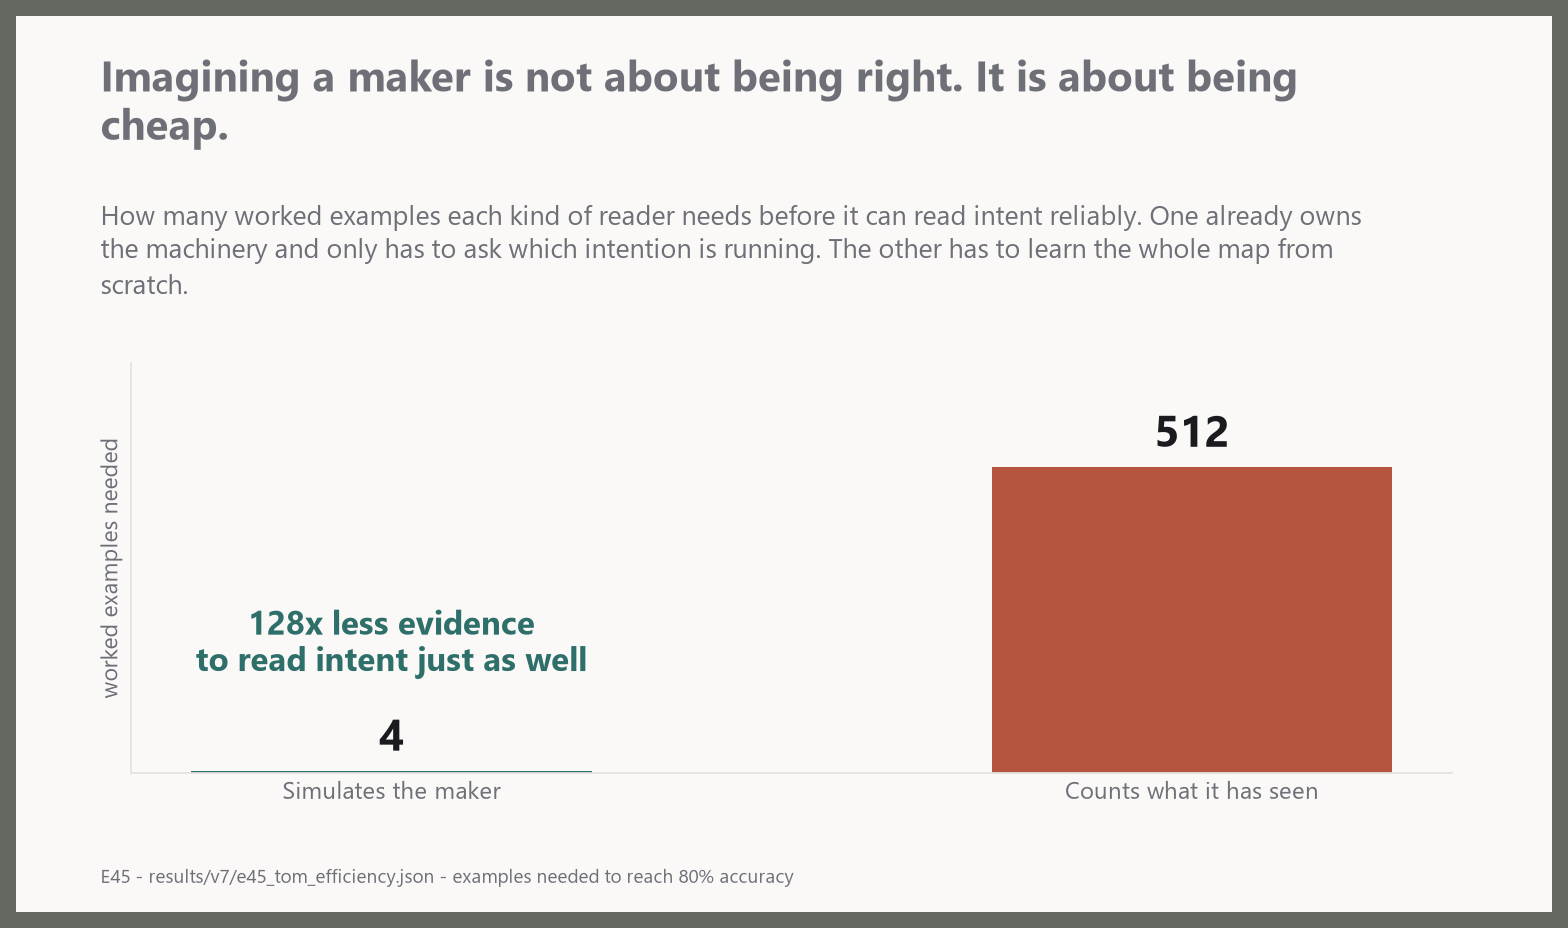
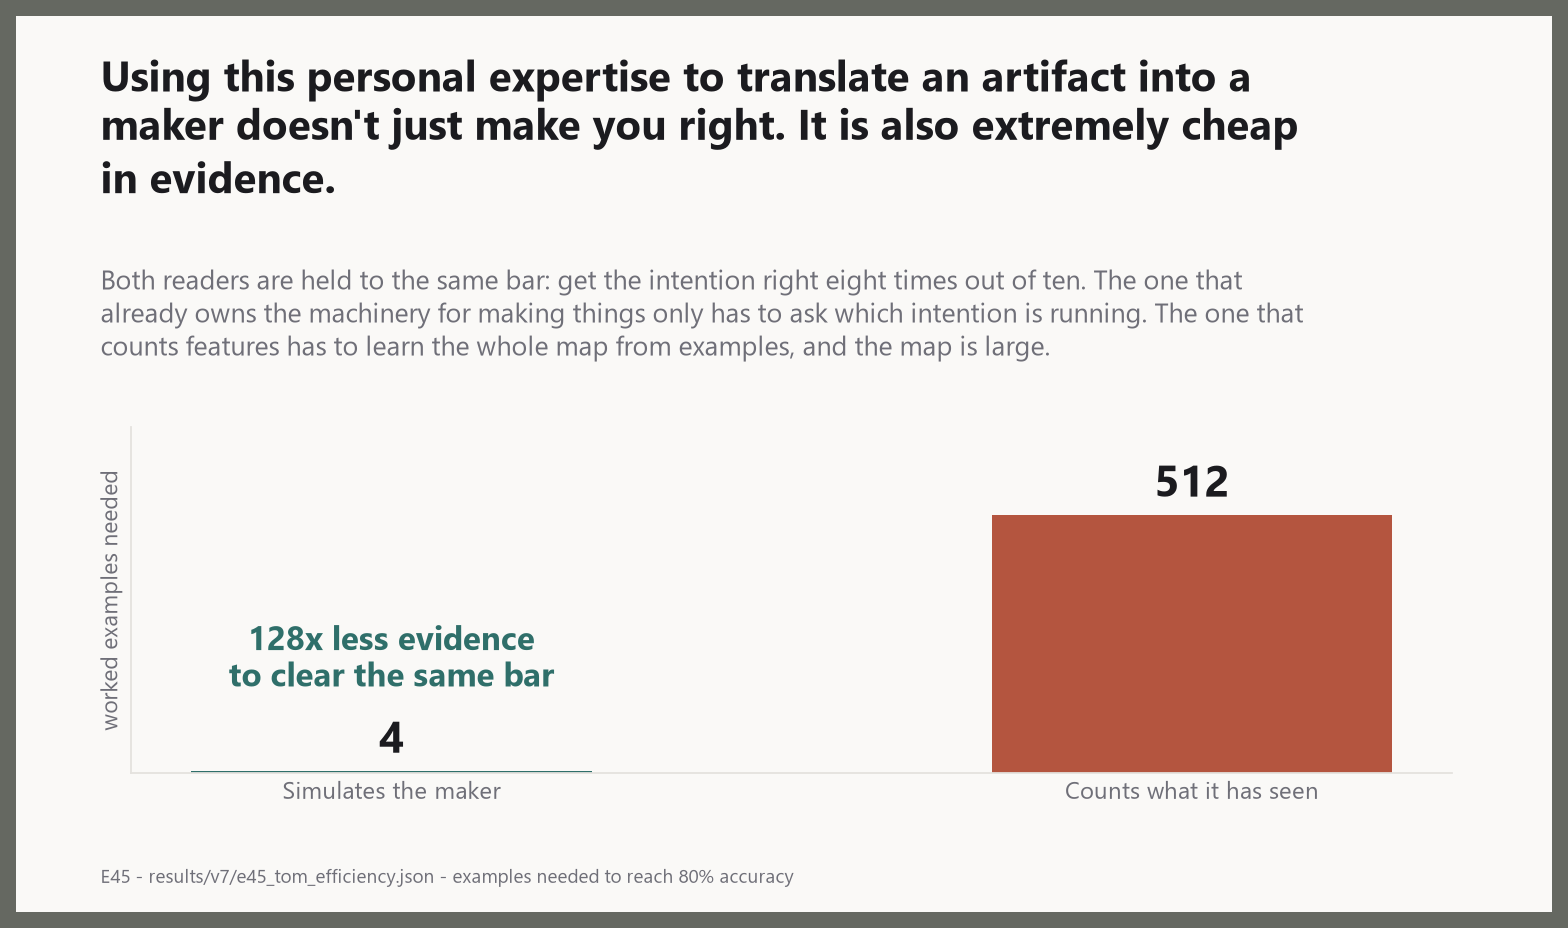
Carousel 2 takes the author's titles, and plate 13 finds its real result
Four titles in the author's hand, so four plates move to black. Two words
changed against the data: 18 said "computationally cheap" and the result is
sample efficiency rather than compute, and 19 said "absorb new processes" when
the measure is a held-out intention.

13 is rebuilt. Identical numbers do not survive three seconds and read as the
model failing its own test. Change the label from a lie to the truth and my
reader drops 0.92 -> 0.04 while the counter does not move; that was in the same
results file the whole time. The withdrawal stays, in the subtitle.

plate() now steps the title size down rather than clamping the axes into the
subtitle, so a three-sentence authored title fits without cutting words.

diff --git a/scripts/make_walkthrough_plates.py b/scripts/make_walkthrough_plates.py
@@ -544,6 +544,13 @@ def plate_13_no_mind_needed():
     that cell the two readers are the same object. It is also plotted as CERTAINTY now, because
     the old plate drew entropy and called it uncertainty, so a shorter bar meant a more confident
     reader and every instinct the eye has was pointing backwards.
+
+    AND THEN REDRAWN AGAIN, because 'here are two identical numbers' does not survive three
+    seconds of a stranger's attention. Worse, it reads as the model failing its own test. The
+    withdrawal is real and it stays in the subtitle, but the picture now shows the thing that
+    was sitting in the same results file the whole time: change the label from a lie to the
+    truth, and my reader drops from 0.92 certain to 0.04 while the counter does not move by a
+    hundredth. The signature was never the evidence. Being able to hear a label is.
     """
     df = pd.read_csv(R / "e21_cell_stats.csv")
     cell = df[(df.content == "goal_empty") & (df.declared_signal == "SIG_CREATOR")]
@@ -556,35 +563,52 @@ def plate_13_no_mind_needed():
         return
 
     hmax = float(np.log(4))       # four goal states, so this is 'no idea at all'
-    certain = [1 - float(full.within_observer.iloc[0]) / hmax,
-               1 - float(naive.within_observer.iloc[0]) / hmax]
-    dis = [float(full.between_observer.iloc[0]) / hmax,
-           float(naive.between_observer.iloc[0]) / hmax]
+
+    def certainty(rows, sig):
+        r = rows[rows.declared_signal == sig] if "declared_signal" in rows else rows
+        return 1 - float(r.within_observer.iloc[0]) / hmax
+
+    arm_full = str(full.arm.iloc[0])
+    arm_naive = str(naive.arm.iloc[0])
+    cellc = df[(df.content == "goal_empty")]
+    lied = [certainty(cellc[cellc.arm == arm_full], "SIG_CREATOR"),
+            certainty(cellc[cellc.arm == arm_naive], "SIG_CREATOR")]
+    told = [certainty(cellc[cellc.arm == arm_full], "SIG_GHOST"),
+            certainty(cellc[cellc.arm == arm_naive], "SIG_GHOST")]
 
     fig, ax = plate(
-        "You don't need to imagine a mind to invent one.",
-        "Both readers are shown the same empty content under the same false creator label. One "
-        "of them models a maker. The other counts features and represents no maker at all. On "
-        "the signature this project was built around, they are the same object.",
-        "E21 - results/e21_cell_stats.csv - empty content under a creator label; certainty is "
-        "1 minus the reader's own entropy, disagreement is the spread between readers")
+        "A feature-counter invents a maker exactly as confidently as my reader does. "
+        "It also cannot hear you when you tell it the truth.",
+        "I used to claim that the confident, contradictory reading of empty content needed a "
+        "reader that models a maker. It does not, and my own experiment is what withdrew that: "
+        "told a person made it, both readers commit equally hard to somebody who was never there. "
+        "Then tell them honestly that no person did. Only one of them can hear it.",
+        "E21 - results/e21_cell_stats.csv - the same empty artifact under a false creator label "
+        "and an honest one; certainty is 1 minus the reader's own entropy over what it was for")
     xs = np.arange(2)
     w = 0.34
-    b1 = ax.bar(xs - w / 2, certain, width=w, color=COOL)
-    b2 = ax.bar(xs + w / 2, dis, width=w, color=MACHINE)
+    b1 = ax.bar(xs - w / 2, lied, width=w, color=MACHINE)
+    b2 = ax.bar(xs + w / 2, told, width=w, color=COOL)
     ax.set_xticks(xs)
-    ax.set_xticklabels(["The full model\n(imagines a maker)",
-                        "A counting classifier\n(imagines nothing)"], fontsize=12)
-    bar_labels(ax, b1, certain, fmt="{:.2f}", fontsize=13, color=INK)
-    bar_labels(ax, b2, dis, fmt="{:.2f}", fontsize=13, color=INK)
-    ax.set_ylim(0, 1.42)
-    clean_axis(ax)
+    ax.set_xticklabels(["My reader\n(imagines a maker)",
+                        "A counting classifier\n(imagines nothing)"], fontsize=12.5)
+    bar_labels(ax, b1, lied, fmt="{:.2f}", fontsize=13, color=INK)
+    bar_labels(ax, b2, told, fmt="{:.2f}", fontsize=13, color=INK)
+    ax.set_ylim(0, 1.46)
+    clean_axis(ax, "how sure it ends up")
     ax.set_yticks([])
-    annotate(ax, -0.44, 1.30, "how sure it ends up", color=COOL, fontsize=11.5, weight="bold")
-    annotate(ax, 0.40, 1.30, "how much readers disagree", color=MACHINE, fontsize=11.5,
+    annotate(ax, -0.44, 1.34, "told a person made it", color=MACHINE, fontsize=12, weight="bold")
+    annotate(ax, 0.30, 1.34, "told honestly that nobody did", color=COOL, fontsize=12,
              weight="bold")
-    annotate(ax, 0.5, 1.13, "the same, to two decimal places, on both measures",
-             color=INK, ha="center", fontsize=13, weight="bold")
+    # The whole point of the redraw: the eye has to land on ONE pair collapsing and the other
+    # not moving. Everything else on this plate is there to make that comparison legible.
+    ax.annotate("", xy=(w / 2, told[0] + 0.22), xytext=(-w / 2, lied[0] - 0.04),
+                arrowprops=dict(arrowstyle="->", color=INK, lw=2.2,
+                                connectionstyle="arc3,rad=-0.25"))
+    annotate(ax, 0.10, 0.58, "the truth lands", color=INK, fontsize=12.5, weight="bold",
+             ha="left")
+    annotate(ax, 1, told[1] + 0.20, "the truth changes nothing at all",
+             color=COOL, ha="center", fontsize=12.5, weight="bold")
     record(save(fig, "13_no_mind_needed"),
            "A claim this project withdrew, using its own experiment. Kept prominently on purpose.")
 
@@ -727,11 +751,14 @@ def plate_18_what_tom_buys():
     sim, cnt = h1["evidence_the_simulator_needs"], h1["evidence_the_counter_needs"]
 
     fig, ax = plate(
-        "Imagining a maker is not about being right. It is about being cheap.",
-        "How many worked examples each kind of reader needs before it can read intent reliably. "
-        "One already owns the machinery and only has to ask which intention is running. The other "
-        "has to learn the whole map from scratch.",
-        "E45 - results/v7/e45_tom_efficiency.json - examples needed to reach 80% accuracy")
+        "Using this personal expertise to translate an artifact into a maker doesn't just "
+        "make you right. It is also extremely cheap in evidence.",
+        "Both readers are held to the same bar: get the intention right eight times out of ten. "
+        "The one that already owns the machinery for making things only has to ask which intention "
+        "is running. The one that counts features has to learn the whole map from examples, and "
+        "the map is large.",
+        "E45 - results/v7/e45_tom_efficiency.json - examples needed to reach 80% accuracy",
+        authored=True)
     # LINEAR, deliberately. This was drawn on a log axis and the log axis was lying by being
     # tidy: 4 against 512 came out looking like a one-to-five difference, which is the single
     # most understated number in the project. On a linear axis the cheap reader is a sliver,
@@ -744,8 +771,8 @@ def plate_18_what_tom_buys():
     ax.set_ylim(0, cnt * 1.34)
     clean_axis(ax, "worked examples needed")
     ax.set_yticks([])
-    annotate(ax, 0, cnt * 0.30, str(int(cnt / max(sim, 1))) + "x less evidence\nto read intent "
-             "just as well", color=HUMAN, ha="center", fontsize=15, weight="bold")
+    annotate(ax, 0, cnt * 0.30, str(int(cnt / max(sim, 1))) + "x less evidence\nto clear the "
+             "same bar", color=HUMAN, ha="center", fontsize=15, weight="bold")
     record(save(fig, "18_what_imagining_a_maker_buys"),
            "The experiment that made this project withdraw a claim asked whether you NEED to "
            "imagine a maker. You do not. It never asked what imagining one buys.")
@@ -762,10 +789,15 @@ def plate_19_zero_shot():
     chance = float(d["chance"])
 
     fig, ax = plate(
-        "You can recognise a purpose nobody has ever shown you. A pattern-matcher cannot.",
-        "Reading an intention that appears nowhere in the training data. More data does not help "
-        "the pattern-matcher, because its problem was never a shortage of examples.",
-        "E45 - results/v7/e45_tom_efficiency.json - accuracy on a held-out intention")
+        "Using the simulating power of empathy to bridge a gap in your understanding, you can "
+        "read a purpose you have never been shown. A pattern-matcher fails at this.",
+        "The intention being read here appears nowhere in either reader's training data. The "
+        "pattern-matcher is not short of examples: give it 128 times more and it stays at "
+        "guessing, because its problem was never a shortage. It has no way to represent something "
+        "it has not already seen.",
+        "E45 - results/v7/e45_tom_efficiency.json - accuracy on a held-out intention, against a "
+        "two-way choice",
+        authored=True)
     ax.plot(range(len(xs)), [by[x] for x in xs], "-o", color=MACHINE, lw=2.6, ms=8)
     ax.axhline(sim, color=HUMAN, lw=2.8)
     ax.axhline(chance, color=NEUTRAL, lw=1.4, ls=":")
@@ -803,25 +835,32 @@ def plate_20_rejection_is_not_protection():
     perfect = float(by["0.0"]["final_drift"])
 
     fig, ax = plate(
-        "You cannot read something, reject it, and walk away unchanged.",
+        "One of this model's emergent properties is predicting the mechanism for indoctrination "
+        "or marketing. Unfortunately, the same result implies that engaging with unlabelled AI "
+        "content can actively erode away your expertise. Empathy is automatic.",
         "Two readers, both refusing everything they are shown. To decide you disagree with "
         "something you first have to work out what it says, and working out what it says means "
-        "partly running it. Refusing is itself a small act of taking on, and it compounds.",
+        "partly running it. What gets through the guard is not the content. It is the effort you "
+        "spent deciding what to disagree with.",
         "E46 - results/v7/e46_gate_leak.json - how far a reader's own beliefs moved after "
-        "repeatedly rejecting everything, at a fixed 10% leak")
+        "repeatedly rejecting everything, at a fixed 10% leak",
+        authored=True)
     bars = ax.bar(["Skims it\n(two looks)", "Studies it closely\nto refute it (sixteen looks)"],
                   [skim, close], color=[NEUTRAL, MACHINE], width=0.5)
     bar_labels(ax, bars, [skim, close], fmt="{:.3f}", fontsize=15, color=INK)
-    ax.set_ylim(0, close * 1.42)
+    ax.set_ylim(0, close * 1.52)
     clean_axis(ax, "how far the reader moved")
     ax.set_yticks([])
     annotate(ax, 1, close * 1.16,
              str(int(round(eng["ratio"]))) + "x further from where it started",
              color=MACHINE, ha="center", fontsize=14, weight="bold")
-    annotate(ax, -0.42, close * 1.30,
-             "Seal the guard completely and the drift does go to "
-             f"{perfect:.5f}.\nNo version of this reader after version 5 has a guard that seals.",
-             color=MUTED, ha="left", fontsize=11, va="top")
+    invented = float(d["what_a_reader_absorbs_of_its_own_invention"]
+                     ["drift_on_content_with_no_recoverable_intent"])
+    annotate(ax, -0.36, close * 1.50,
+             "Nobody put this leak in: version 6 made the guard smooth, and a smooth guard never "
+             "quite shuts.\nShown content with no maker to recover, the reader invents one and "
+             f"absorbs its own invention ({invented:.3f}).",
+             color=MUTED, ha="left", fontsize=10.5, va="top")
     record(save(fig, "20_rejection_is_not_protection"),
            "The theory always contained this term and the code never did. It is the proposed "
            "mechanism for indoctrination: you are changed by what you refuse.")
@@ -1023,11 +1062,12 @@ def plate_24_what_its_made_of():
             ("costly_attention", "looking\ncosts\nsomething")]
 
     fig, ax = plate(
-        "I removed one piece of the model at a time to see what each finding is made of.",
-        "Every result in this project dies the moment the reader stops imagining a maker and "
+        "Just like last time, I was particularly careful with validation.",
+        "So I removed one piece of the model at a time to see what each finding is actually made "
+        "of. Every result in this project dies the moment the reader stops imagining a maker and "
         "starts pattern-matching a surface. Nothing else is load-bearing everywhere.",
         "V9 minimal-model programme - results/v9/summary.json - a finding 'dies' when it no "
-        "longer appears with that structural commitment removed")
+        "longer appears with that structural commitment removed", authored=True)
 
     pos = ax.get_position()
     ax.set_position([0.235, pos.y0 + 0.02, 0.70, pos.height - 0.02])
@@ -1055,7 +1095,7 @@ def plate_24_what_its_made_of():
     ax.set_xticks([]); ax.set_yticks([])
     for s in ax.spines.values():
         s.set_visible(False)
-    ax.text(0, -0.52, "remove this and\neverything falls over", ha="center", va="top",
+    ax.text(0, -0.52, "removing this is what\nshows it to be load-bearing", ha="center", va="top",
             fontsize=11.5, color=MACHINE, fontweight="bold", linespacing=1.25)
     ax.text(4.5, -0.52, "the model can lose these and keep every result",
             ha="center", va="top", fontsize=11, color=MUTED)

diff --git a/ghostscale/plates.py b/ghostscale/plates.py
@@ -92,7 +92,18 @@ def plate(title: str, subtitle: str, footer: str, size=(9.6, 5.6), authored: boo
     height they actually needed.
     """
     _apply_rc()
-    title_lines = _wrap(title, 62)
+
+    # THE TITLE SETS ITS OWN SIZE. A three-sentence authored title wrapped to six lines at 19pt
+    # and pushed the axes up underneath the subtitle, where the layout clamp let the plot overrun
+    # its own text. Cutting the author's words to fit the typography is the wrong way round, so
+    # the typography gives way instead: step down through wider, smaller settings and take the
+    # first that fits in four lines. Short titles are untouched and still render at 19.
+    for _w, _size in ((62, 19), (74, 16.5), (88, 14.5), (104, 13)):
+        title_lines = _wrap(title, _w)
+        if len(title_lines) <= 4:
+            break
+    title_size = _size
+    title_step = 0.072 * (title_size / 19.0)
     sub_lines = _wrap(subtitle, 104)
 
     fig = plt.figure(figsize=size)
@@ -107,10 +118,10 @@ def plate(title: str, subtitle: str, footer: str, size=(9.6, 5.6), authored: boo
     # A reader who never learns what the colours mean loses nothing. A reader who does gets the
     # project's own instrument applied to the project's own slides, which is the only honest place
     # to start using it.
-    fig.text(0.055, top, "\n".join(title_lines), fontsize=19, fontweight="bold",
+    fig.text(0.055, top, "\n".join(title_lines), fontsize=title_size, fontweight="bold",
              color=INK if authored else MUTED, va="top", linespacing=1.22)
 
-    sub_y = top - 0.072 * len(title_lines) - 0.018
+    sub_y = top - title_step * len(title_lines) - 0.018
     fig.text(0.055, sub_y, "\n".join(sub_lines), fontsize=12, color=MUTED,
              va="top", linespacing=1.32)
 

diff --git a/WALKTHROUGH.md b/WALKTHROUGH.md
@@ -174,9 +174,13 @@ is in this repository.**
 A classifier that counts features and never represents a maker reproduces the pattern, through
 nothing more than small-sample overfitting. On empty content carrying a creator's label the two
 readers end up **0.92 certain against 0.92, disagreeing 0.99 against 0.99** — the same object, to
-two decimal places, on both halves of the signature. What the counter *cannot* do is respond to a
-label, or keep paying attention to something it cannot resolve, and those are the two the framework
-now rests on.
+two decimal places, on both halves of the signature.
+
+**Then change the label from a lie to the truth.** Told honestly that no person was behind the
+work, the maker-modelling reader drops from **0.92 certain to 0.04**. The counter goes from 0.92
+to 0.92. It has no channel for the information, because a label is a claim about a maker and it
+does not have one. The signature was never the evidence for a maker-model; being able to hear a
+label is, and so is being able to keep paying attention to something you cannot resolve.
 
 ### 14. A knee, not a cliff
 
